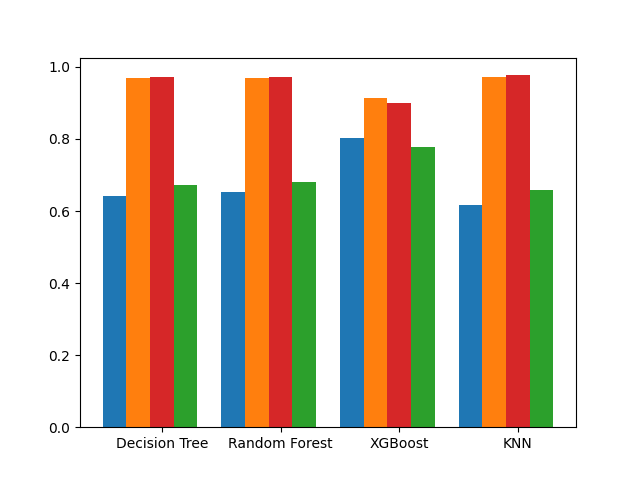
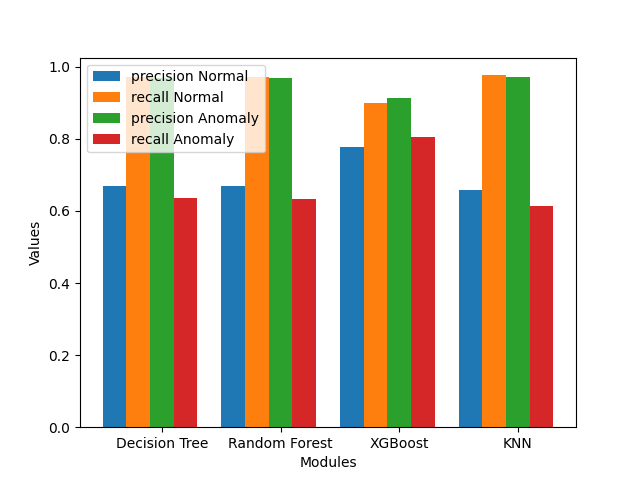
Create the config.py and add all constant variables

diff --git a/src/main.py b/src/main.py
@@ -1,0 +1,155 @@
+import pandas as pd
+import numpy as np
+import config
+from xgboost import XGBClassifier
+from sklearn.preprocessing import TargetEncoder
+from sklearn.preprocessing import RobustScaler
+from sklearn.tree import DecisionTreeClassifier
+from sklearn.metrics import confusion_matrix
+from sklearn.metrics import classification_report
+from sklearn.ensemble import RandomForestClassifier
+from sklearn.neighbors import KNeighborsClassifier
+from seaborn import heatmap
+import matplotlib.pyplot as plt
+
+def separate_Info(testData, trainData):
+    X_train = trainData.drop(columns=config.CLASS_COLUMN)
+    X_test = testData.drop(columns=config.CLASS_COLUMN)
+    Y_train = trainData[config.CLASS_COLUMN]
+    Y_test = testData[config.CLASS_COLUMN]
+    return X_train, X_test, Y_train, Y_test
+
+def encode_DataFrame(DataFrame, encoder, test=False):
+    X = DataFrame[config.ENCODER_COLUMNS]
+    Y = DataFrame[config.CLASS_COLUMN]
+    if test:
+        print("Test file")
+        return encoder.transform(X)
+    else:
+        print("Train file")
+        return encoder.fit_transform(X,Y)
+
+
+if __name__ == '__main__':
+
+    #Read First CSV
+    df_train = pd.read_csv(config.DATA_FILE_PATH + config.TRAIN_FILE, sep=config.COMMA)
+
+    #Clean DataBase
+    df_train.drop(columns=config.DROP_COLUMNS, inplace=True)
+
+    #Encode Strings in DataBase
+    encoder = TargetEncoder()
+    one_hot_encoder = encode_DataFrame(df_train, encoder)
+    df_train[config.ENCODER_COLUMNS] = one_hot_encoder
+    df_train[config.CLASS_COLUMN] = df_train[config.CLASS_COLUMN].map(config.CLASS_MAP)
+
+    #Read Second CSV
+    df_test = pd.read_csv(config.DATA_FILE_PATH + config.TEST_FILE, sep=config.COMMA)
+
+    #Clean DataBase
+    df_test.drop(columns=config.DROP_COLUMNS, inplace=True)
+
+    #Encode String in DatBase
+    one = encode_DataFrame(df_test, encoder, test=True)
+    df_test[config.ENCODER_COLUMNS] = one
+    df_test[config.CLASS_COLUMN] = df_test[config.CLASS_COLUMN].map(config.CLASS_MAP)
+
+    #Split DataBase
+    X_train, X_test, Y_train, Y_test = separate_Info(df_test, df_train)
+
+    #First model: Decision Tree
+    model_DecisionTree = DecisionTreeClassifier(min_samples_split=config.MIN_SAMPLE_SPLIT,
+                                                criterion=config.DECISION_TREE_CRITERION,
+                                                max_depth=config.DECISION_TREE_MAX_DEPTH,
+                                                class_weight=config.DECISION_TREE_CLASS_WEIGHT)
+    model_DecisionTree.fit(X_train, Y_train)
+    y_prediction_Decision_tree = model_DecisionTree.predict(X_test)
+    matrix_DecisionTree = confusion_matrix(Y_test, y_prediction_Decision_tree)
+    report_DecisionTree = classification_report(Y_test, y_prediction_Decision_tree, output_dict=True)
+    print("matrix: \n", matrix_DecisionTree)
+    print("report: \n", report_DecisionTree)
+
+    #Second Model
+    print("============================================= RANDOM FOREST ===============================================\n")
+    model_RF = RandomForestClassifier(random_state=config.RANDOM_FOREST_RANDOM_STATE,
+                                      min_samples_split=config.MIN_SAMPLE_SPLIT)
+    model_RF.fit(X_train, Y_train)
+    y_prediction = model_RF.predict(X_test)
+    matrix_RandomForest = confusion_matrix(Y_test, y_prediction)
+    report_RandomForest = classification_report(Y_test, y_prediction, output_dict=True)
+    print("matrix: \n", matrix_RandomForest)
+    print("report: \n", report_RandomForest)
+
+    #Third Model
+    print("============================================= XBB Classifier ==============================================\n")
+    model_XBB = XGBClassifier(learning_rate=config.XGB_LEARNING_RATE, max_depth=config.XGB_MAX_DEPTH,
+                              n_estimators=config.XGB_N_ESTIMATORS, scale_pos_weight=config.XGB_SCALE_POS_WEIGHT,
+                              subsample=config.XGB_SUBSAMPLE)
+    model_XBB.fit(X_train, Y_train)
+    XBB_prediction = model_XBB.predict(X_test)
+    matrix_XBB = confusion_matrix(Y_test, XBB_prediction)
+    report_XBB = classification_report(Y_test, XBB_prediction, output_dict=True)
+    print("matrix: \n", matrix_XBB)
+    print("report: \n", report_XBB)
+
+    #Create Heat Map with the confusion matrix
+    heatmap = heatmap(matrix_XBB, cmap=config.COLOR_MAP, annot=True, xticklabels=config.TICK_LABELS,
+                      yticklabels=config.TICK_LABELS, fmt=config.FORMAT, annot_kws=config.FONT_SIZE)
+    plt.xlabel(config.HEATMAP_X_LABEL)
+    plt.ylabel(config.HEATMAP_Y_LABEL)
+    plt.title(config.HEATMAP_TITLE)
+    plt.savefig(config.RESULT_FILE_PATH + config.MATRIX_IMAGE_FILE)
+    plt.clf()
+
+    #Fourth Model
+    print("============================================= K Nearest Neighbours =========================================\n")
+    scaler = RobustScaler()
+    scaler_train = scaler.fit_transform(X_train)
+    scaler_test = scaler.transform(X_test)
+    df_train[X_train.columns] = scaler_train
+    X_train = df_train[X_train.columns]
+    df_test[X_test.columns] = scaler_test
+    X_test = df_test[X_test.columns]
+    classifier = KNeighborsClassifier(metric=config.KNN_METRIC, n_neighbors=config.KNN_N_NEIGHBORS,
+                                      weights=config.KNN_WEIGHTS)
+    classifier.fit(X_train, Y_train)
+    KNN_Predictions = classifier.predict(X_test)
+    matrix_KNN = confusion_matrix(Y_test, KNN_Predictions)
+    report_KNN = classification_report(Y_test, KNN_Predictions, output_dict=True)
+    print("matrix: \n", matrix_KNN)
+    print("report: \n", report_KNN)
+
+
+    #Create graph to compare results of all modules
+    recall_anomaly = [report_DecisionTree[config.ANOMALY_INTEGER][config.RECALL],
+                      report_RandomForest[config.ANOMALY_INTEGER][config.RECALL],
+                      report_XBB[config.ANOMALY_INTEGER][config.RECALL],
+                      report_KNN[config.ANOMALY_INTEGER][config.RECALL]]
+    precision_anomaly = [report_DecisionTree[config.ANOMALY_INTEGER][config.PRECISION],
+                         report_RandomForest[config.ANOMALY_INTEGER][config.PRECISION],
+                         report_XBB[config.ANOMALY_INTEGER][config.PRECISION],
+                         report_KNN[config.ANOMALY_INTEGER][config.PRECISION]]
+    recall_normal = [report_DecisionTree[config.NORMAL_INTEGER][config.RECALL],
+                     report_RandomForest[config.NORMAL_INTEGER][config.RECALL],
+                     report_XBB[config.NORMAL_INTEGER][config.RECALL],
+                     report_KNN[config.NORMAL_INTEGER][config.RECALL]]
+    precision_normal = [report_DecisionTree[config.NORMAL_INTEGER][config.PRECISION],
+                        report_RandomForest[config.NORMAL_INTEGER][config.PRECISION],
+                        report_XBB[config.NORMAL_INTEGER][config.PRECISION],
+                        report_KNN[config.NORMAL_INTEGER][config.PRECISION]]
+
+
+    x = np.arange(len(config.MODELS))
+    plt.bar(x - (config.WIDTH + config.WIDTH), precision_normal, config.WIDTH)
+    plt.bar(x-config.WIDTH, recall_normal, config.WIDTH)
+    plt.bar(x, precision_anomaly, config.WIDTH)
+    plt.bar(x + config.WIDTH, recall_anomaly, config.WIDTH)
+
+    plt.xlabel(config.BAR_PLOT_X_LABEL)
+    plt.ylabel(config.BAR_PLOT_Y_VALUES)
+    plt.xticks(x, config.MODELS)
+    plt.legend(config.BAR_PLOT_LEGEND)
+
+
+    plt.savefig(config.RESULT_FILE_PATH + config.BAR_PLOT_FILE)

diff --git a/src/config.py b/src/config.py
@@ -1,0 +1,51 @@
+
+#Data Base Constants
+CLASS_COLUMN = "class"
+ENCODER_COLUMNS = ["protocol_type", "service", "flag"]
+DROP_COLUMNS = ["num_outbound_cmds"]
+CLASS_MAP = {'normal': 0, 'anomaly': 1}
+
+# Path to open files
+DATA_FILE_PATH= "../data"
+TRAIN_FILE = "/KDDTrain.arff"
+TEST_FILE = "/KDDTest.arff"
+RESULT_FILE_PATH = "../Results"
+MATRIX_IMAGE_FILE = "/Xbb_matrix.png"
+BAR_PLOT_FILE = "/Graph.png"
+COMMA = ","
+
+#Models Constants
+MIN_SAMPLE_SPLIT = 2
+DECISION_TREE_CRITERION = "entropy"
+DECISION_TREE_MAX_DEPTH = 30
+DECISION_TREE_CLASS_WEIGHT = "balanced"
+RANDOM_FOREST_RANDOM_STATE = 100
+XGB_LEARNING_RATE = 0.01
+XGB_MAX_DEPTH = 7
+XGB_N_ESTIMATORS = 100
+XGB_SCALE_POS_WEIGHT = 25
+XGB_SUBSAMPLE = 1.0
+KNN_METRIC = 'manhattan'
+KNN_N_NEIGHBORS = 3
+KNN_WEIGHTS = 'distance'
+
+#HeatMap constants
+COLOR_MAP = "Greens"
+TICK_LABELS = ["Normal", "Anomaly"]
+FORMAT = 'd'
+FONT_SIZE = {'size': 20}
+HEATMAP_X_LABEL = "Predicted"
+HEATMAP_Y_LABEL = "Actual"
+HEATMAP_TITLE = "XGB Classifier Confusion Matrix"
+
+#Graph Constant
+MODELS = ['Decision Tree', 'Random Forest', 'XGBoost', 'KNN']
+NORMAL_INTEGER = '0'
+ANOMALY_INTEGER = '1'
+RECALL = 'recall'
+PRECISION = 'precision'
+WIDTH = 0.2
+BAR_PLOT_X_LABEL = "Modules"
+BAR_PLOT_Y_VALUES = "Values"
+BAR_PLOT_LEGEND = ["precision Normal", "recall Normal", "precision Anomaly", "recall Anomaly"]
+
